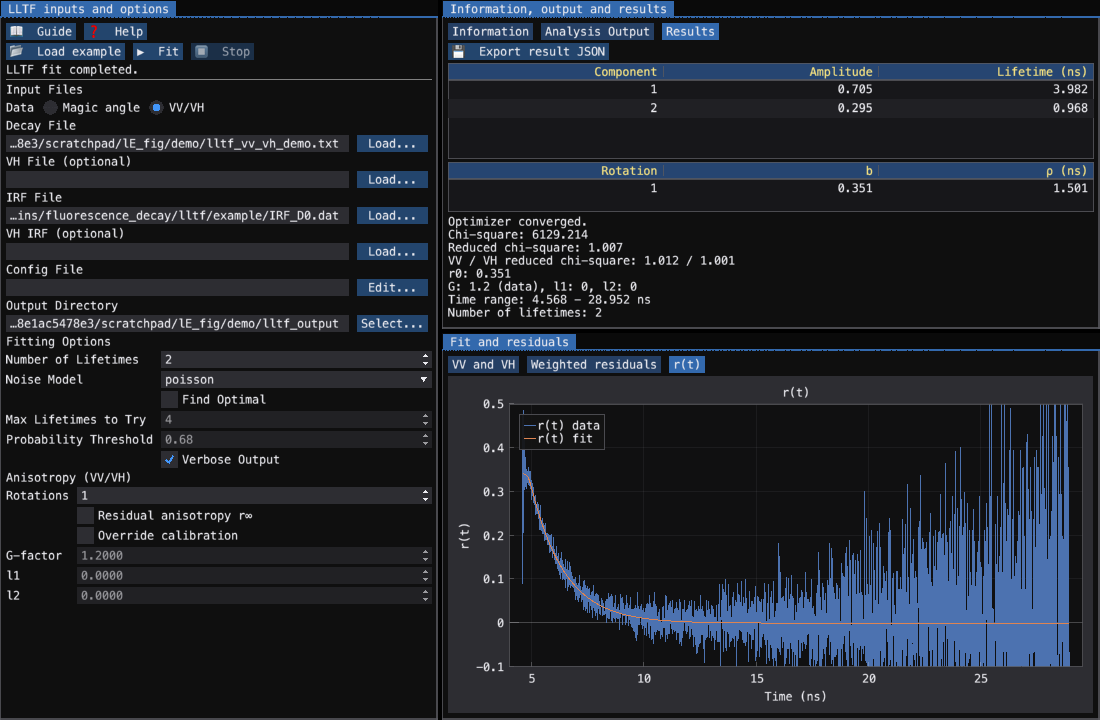
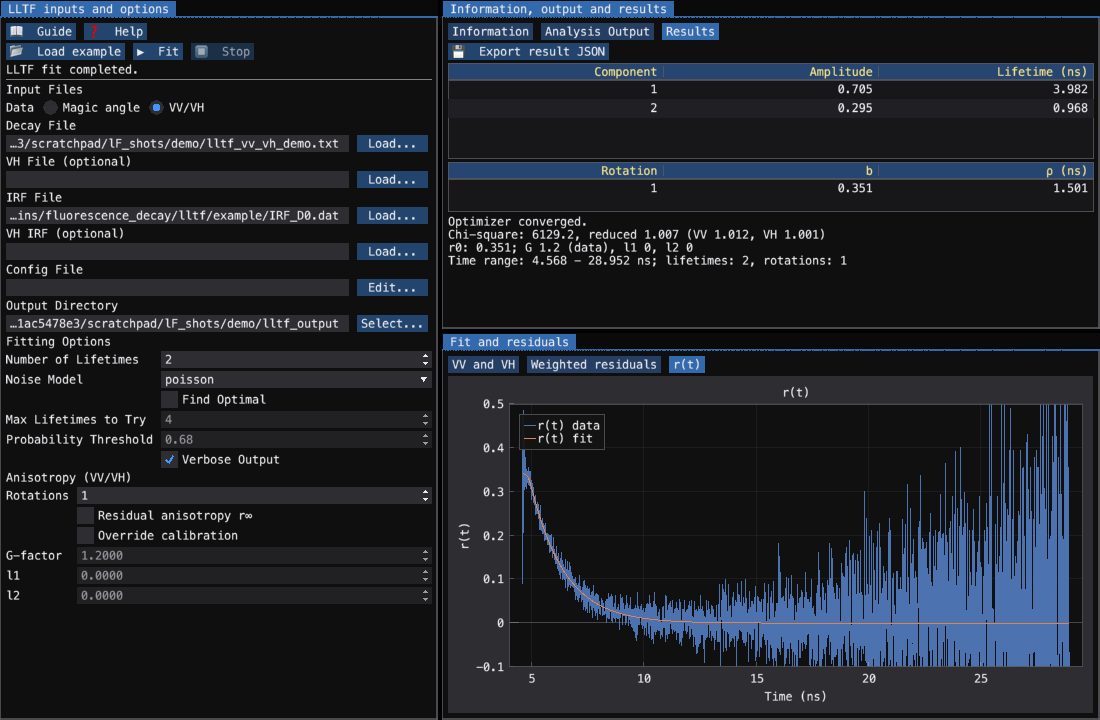
LLTF VV/VH: the r0 offset was sampling, not bias; summary fits 800x600
r0 came back 0.3518-0.3535 on demo seeds 1-5 (truth 0.35). Over 30 seeds it is
0.3503 +- 0.0004 (sd 0.0020): seeds 6-30 average 0.3497. Noise-free expected
counts give 0.3500, rho 1.5000 exactly, so simulator and fitter share one
forward model (convolution, l1/l2, G, shift); holding the backgrounds at the true
0 or fitting Neyman leaves the 12-seed mean at 0.3503/0.3504. The Wizard demo's
0.381 is one draw of the same spread. Test: a noise-free round trip pins r0 to
2e-4, rho to 2e-3.

The VV/VH Results summary is five lines (chi-square with per-channel chi2r; r0
with G/l1/l2 and source; range with lifetime and rotation counts), so it fits
under the two tables at 800x600; rendered and read at 800x600 and 1100x720; a
GUI test asserts the last line is drawn in the upper half at 800x600. Guide 76
figure refreshed and the r0 sentence corrected; re-signed. OKF resume items
(a) and (c) closed.

Changed region(s): [[0.4018, 0.3056, 0.7727, 0.4583], [0.0, 0.4278, 0.2164, 0.4583], [0.0, 0.1833, 0.1545, 0.2139]]

diff --git a/chisurf/plugins/fluorescence_decay/lltf/gui/model.py b/chisurf/plugins/fluorescence_decay/lltf/gui/model.py
@@ -120,21 +120,31 @@ class LLTFModel:
         elif result.get("converged") is False:
             message = result.get("optimizer_message") or tr("Optimization did not converge.")
             lines.append(tr("Optimizer warning: {message}").format(message=message))
-        if "chi_square" in result:
-            lines.append(f"Chi-square: {result['chi_square']:.3f}")
-        if "reduced_chi_square" in result:
-            lines.append(f"Reduced chi-square: {result['reduced_chi_square']:.3f}")
         if result.get("mode") == "vv_vh":
+            # Two tables sit above this in VV/VH mode: five lines, so the summary
+            # still fits the Results tab of an 800x600 window.
             lines.append(
-                f"VV / VH reduced chi-square: {result['reduced_chi_square_vv']:.3f} / "
-                f"{result['reduced_chi_square_vh']:.3f}"
+                f"Chi-square: {result['chi_square']:.1f}, reduced "
+                f"{result['reduced_chi_square']:.3f} (VV {result['reduced_chi_square_vv']:.3f}, "
+                f"VH {result['reduced_chi_square_vh']:.3f})"
             )
-            lines.append(f"r0: {result['r0']:.3f}")
             source = result.get("calibration_source", {})
             lines.append(
-                f"G: {result['g_factor']:.4g} ({source.get('g_factor', '?')}), "
-                f"l1: {result['l1']:.4g}, l2: {result['l2']:.4g}"
+                f"r0: {result['r0']:.3f}; G {result['g_factor']:.4g} "
+                f"({source.get('g_factor', '?')}), l1 {result['l1']:.4g}, l2 {result['l2']:.4g}"
             )
+        else:
+            if "chi_square" in result:
+                lines.append(f"Chi-square: {result['chi_square']:.3f}")
+            if "reduced_chi_square" in result:
+                lines.append(f"Reduced chi-square: {result['reduced_chi_square']:.3f}")
+        if result.get("mode") == "vv_vh":
+            lines.append(
+                f"Time range: {result['time_range']['start']:.3f} - "
+                f"{result['time_range']['stop']:.3f} ns; lifetimes: {result['n_lifetimes']}, "
+                f"rotations: {result['n_rotations']}"
+            )
+            return "\n".join(lines)
         if "time_range" in result:
             lines.append(
                 f"Time range: {result['time_range']['start']:.3f} - {result['time_range']['stop']:.3f} ns"

diff --git a/chisurf/plugins/fluorescence_decay/lltf/test/test_polarized.py b/chisurf/plugins/fluorescence_decay/lltf/test/test_polarized.py
@@ -51,6 +51,33 @@ def test_two_lifetimes_one_rotation_are_recovered(seed):
     assert r["converged"]
 
 
+def test_a_noise_free_pair_returns_its_truth_exactly():
+    """Simulator and fitter are one forward model: the expected counts give r0 = 0.3500.
+
+    Over 30 Poisson seeds r0 averages 0.3503 +- 0.0004 (sd 0.0020); seeds 1-5 happen
+    to sit at 0.3518-0.3535.
+    """
+    from chisurf.core.fluorescence.decay import synthetic_aniso_decay
+
+    vv, vh = synthetic_aniso_decay(
+        IRF.size,
+        [1.0, 4.0],
+        amplitudes=[0.3, 0.7],
+        anisotropy_spectrum=[0.35, 1.5],
+        g_factor=1.2,
+        bin_width=DT,
+        irf=IRF,
+        normalize=True,
+    )
+    pd = P.PolarizedDecay(np.arange(IRF.size) * DT, vv * 2e6, vh * 2e6, IRF, IRF, 1.2)
+    settings = merged_settings()
+    pd.setup(settings)
+    r = pd.fit(2, 1, settings=settings)
+    assert r["r0"] == pytest.approx(0.35, abs=2e-4)
+    assert r["rotations"][0]["rho"] == pytest.approx(1.5, abs=2e-3)
+    assert [c["lifetime"] for c in r["lifetimes"]] == pytest.approx([4.0, 1.0], abs=3e-3)
+
+
 @pytest.mark.parametrize("seed", [1, 2])
 def test_schaffer_mixing_and_g_are_applied(seed):
     """G = 0.8, l1 = 0.05, l2 = 0.08: rho 2.0 ns and r0 0.30 come back."""

diff --git a/chisurf/plugins/fluorescence_decay/lltf/test/test_emtk_lltf_clicks.py b/chisurf/plugins/fluorescence_decay/lltf/test/test_emtk_lltf_clicks.py
@@ -390,6 +390,13 @@ def test_vv_vh_example_is_loaded_fitted_and_shown(ui):
     assert any(s.startswith("r0: ") for s in ui.last.strings)
     ui.press_text("r(t)")
     assert "r(t) data" in ui.last.strings and "r(t) fit" in ui.last.strings
+    # the whole summary, below two tables, still fits an 800x600 window
+    ui.size = (800, 600)
+    ui.draw(4)
+    summary = [s for s in ui.last.strings if s.startswith("Time range")]
+    assert summary and "rotations: 1" in summary[0]
+    _, y, _, h = ui.last.texts[[t[5] for t in ui.last.texts].index(summary[0])][:4]
+    assert y + h <= 0.55 * 600
 
 
 def test_magic_angle_hides_the_vv_vh_controls(ui):

diff --git a/okf/plugins/fluorescence-decay.md b/okf/plugins/fluorescence-decay.md
@@ -25,10 +25,11 @@ timestamp: '2026-07-05T00:00:00Z'
    `lltf/test/test_polarized.py` (seeds 1–3, plus mixing, two rotations, r∞, the Wizard cross-check: LLTF
    3.999 / 1.997 / 0.380 vs ChiSurf's linked fit 3.997 / 2.007 / 0.381). Code: `lltf/core/polarized.py`
    reuses `calculcate_spectrum` (made Schaffer for l1/l2 the same day, RF-954). Open:
-   (a) r0 comes back +0.002…+0.004 high on all five demo seeds — cause not found (suspect the IRF window or
-   the shared count-conservation scale with per-channel backgrounds); (b) G is held fixed — a tail-matching G
-   could be fitted when r(t) has decayed inside the window; (c) at 800×600 the VV/VH Results summary needs a
-   scroll below r0; (d) an associated anisotropy (one r(t) per lifetime) is outside the model.
+   (a) [closed] r0 +0.002…+0.004 on demo seeds 1–5 was chance: over 30 seeds 0.3503 ± 0.0004 (sd 0.0020),
+   noise-free counts give 0.3500; fixing the backgrounds at 0 or Neyman changed nothing (scratch probe:
+   simulate 30 seeds, mean r0 — do not judge a bias from five); (b) G is held fixed — a tail-matching G
+   could be fitted when r(t) has decayed inside the window; (c) [closed] the VV/VH summary is five lines and
+   fits 800×600; (d) an associated anisotropy (one r(t) per lifetime) is outside the model.
    Traps: the IRF must be windowed by its baseline noise, not by a fraction of its peak (0.1 % cut the
    example IRF's real tail and moved 1 ns to 1.05 ns; no window left a pedestal, χ²ᵣ 3.8); the magic-angle
    pre-fit that seeds the lifetimes stops off (5.0 / 2.78 ns), so the joint fit runs from two starts.

diff --git a/docs/guides/76_decay_analysis_tools.md b/docs/guides/76_decay_analysis_tools.md
@@ -355,8 +355,9 @@ over both channels, Poisson deviance):
 | 4 ns, $\rho$ 0.3 ns (0.15) + 5 ns (0.20) | 1–5 | $\rho$ 0.24–0.33 ns (0.143–0.171) and 4.68–5.19 ns (0.195–0.207) |
 | 4 ns, $\rho$ 1.5 ns (0.25), $r_\infty$ 0.10 | 1–3 | $r_\infty$ 0.097–0.102, $\rho$ 1.48–1.55 ns |
 
-All five seeds of the first row return $r_0$ slightly above 0.35 (+0.002 to
-+0.004). On the Anisotropy Wizard's simulated example (4 ns, 2 ns, 0.38, separate
+Seeds 1–5 of the first row return $r_0$ = 0.352–0.354, which is chance, not a
+bias: over 30 seeds $r_0$ = 0.3503 ± 0.0004 (s.d. 0.0020), and the expected
+(noise-free) counts give 0.3500 exactly. On the Anisotropy Wizard's simulated example (4 ns, 2 ns, 0.38, separate
 VV and VH IRFs on a 4-count baseline) LLTF returns 3.999 ns, 1.997 ns and 0.380
 ($\chi^2_r$ 0.98) where ChiSurf's linked global fit of the same files returns
 3.997 ns, 2.007 ns and 0.381 ($\chi^2_r$ 0.98).
